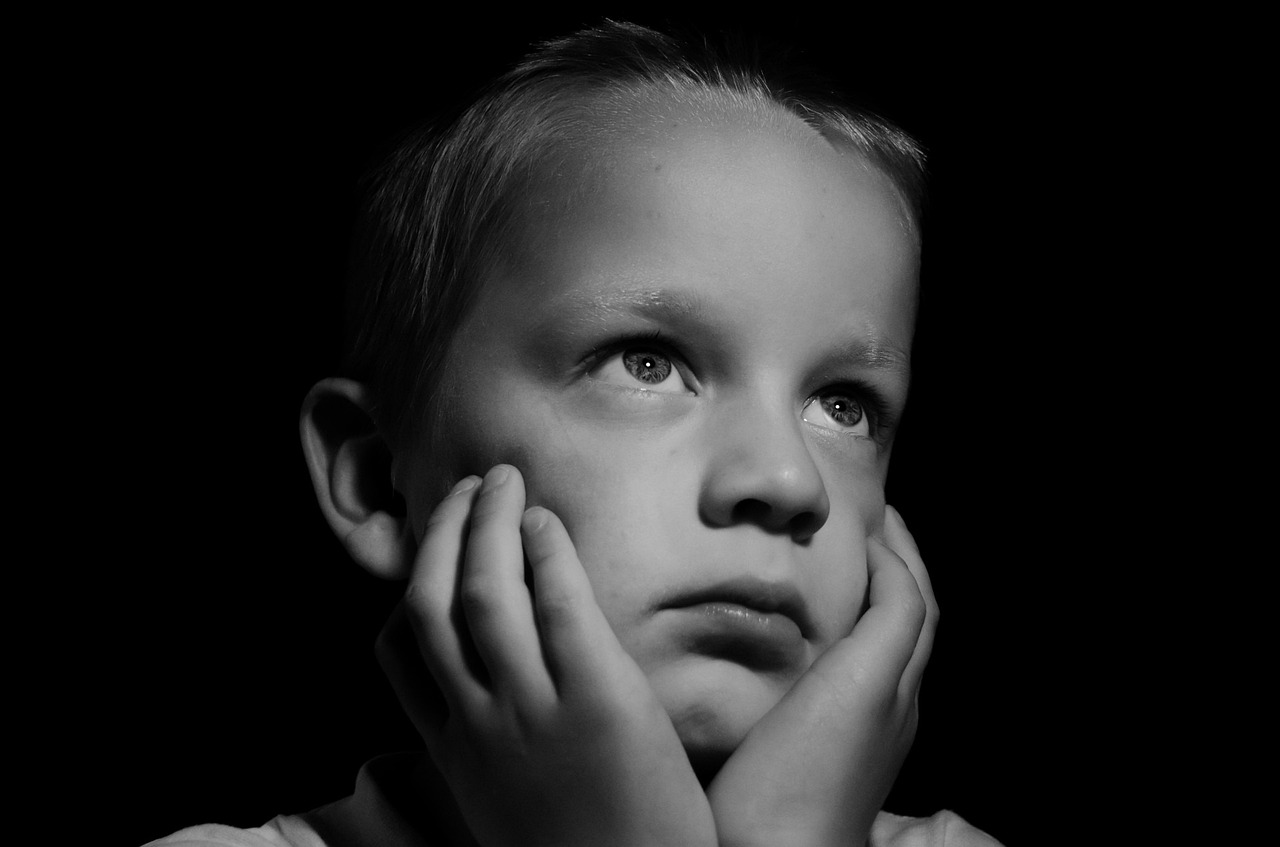
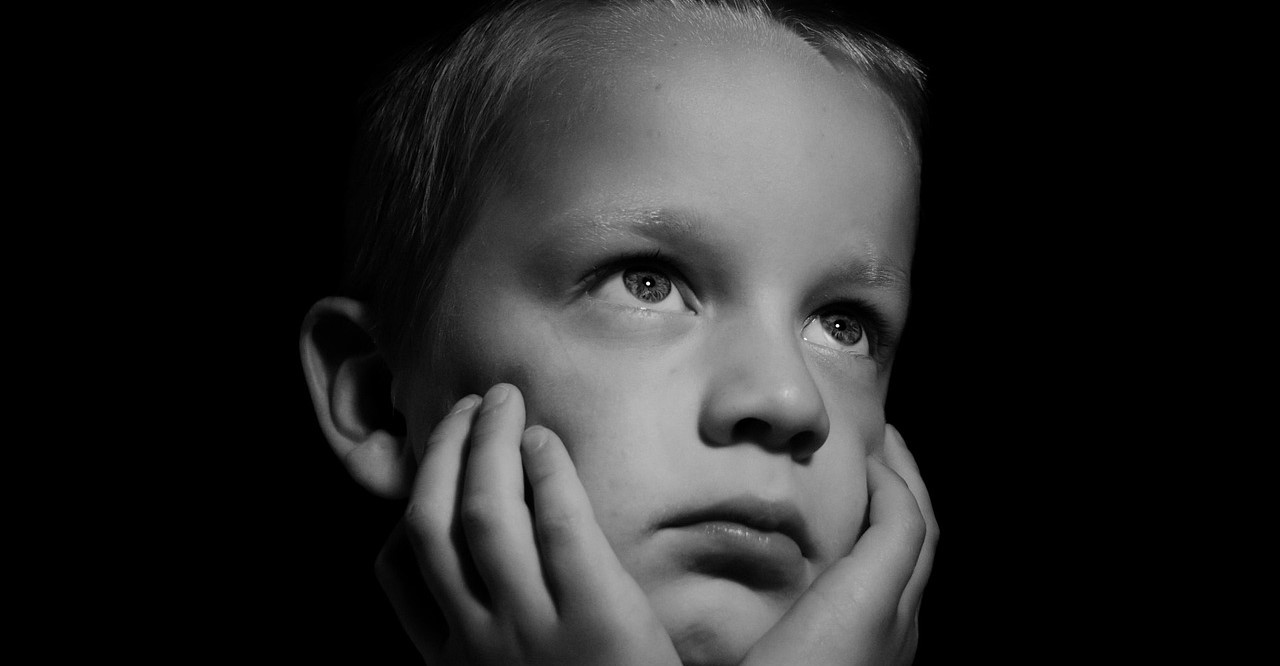
har fået lavet hero tekst, knapper og baggrundsbillede

diff --git a/bornsvilkar/index.html b/bornsvilkar/index.html
@@ -4,10 +4,18 @@
     <meta charset="UTF-8">
     <meta name="viewport" content="width=device-width, initial-scale=1.0">
     <title>Børns Vilkår - Forside</title>
+    <!--link til css for børns vilkår siderne-->
     <link rel="stylesheet" href="styles.css">
+    <!--dette er et link til fontawesome hvor pile i cirklerne kommer fra-->
+    <script src="https://kit.fontawesome.com/04a4f36b9a.js" crossorigin="anonymous"></script>
+
 </head>
 <body>
     <header>
+
+        
+
+        <!--her er html for navigationsbaren-->
         <nav>
             <div class="item01">
                 <a class="logoTekst01" href="#">
@@ -55,37 +63,60 @@
                 </a>
             </div>
         </nav>
+
+
+
+            <!--her er html for baggrundsbilledet til heroteksten, samt knapperne til børns vilkårs funktioner-->
             <img src="images/trist-barn.jpg" alt="trist barn">
+
             <div class="wrapper01">
-                <h1>
+                <h1 class="heroTekst01">
                     VI TALER HØJT OM SVIGT AF BØRN
                 </h1>
-                <p>
+                <p class="heroUndertekst01">
                     Alt for mange børn i Danmark står alene med deres problemer. 
                     Børns Vilkår kæmper for, at ingen børn i Danmark svigtes – 
                     hverken af deres nærmeste voksne eller af samfundet.
                 </p>
-                <div>
-                    <p class="heroKnap01">
-                        HØRT
+                <div class="heroKnap01">
+                    <p>
+                        <a href="#">
+                            <i class="fa-solid fa-circle-right"></i>
+                            HØRT
+                        </a>
                     </p>
-                </div>
-                <div>
-                    <p class="heroKnap01">
-                        Bisidning
+                    <p>
+                        <a href="#">
+                            <i class="fa-solid fa-circle-right"></i>
+                            Bisidning
+                        </a>
                     </p>
-                </div>
-                <div>
-                    <p class="heroKnap01">
-                        Børnetelefonen 116 111
+                    <p>
+                        <a href="#">
+                            <i class="fa-solid fa-circle-right"></i>
+                            Børnetelefonen <br> 116 111
+                        </a>
                     </p>
-                </div>
-                <div>
-                    <p class="heroKnap01">
-                        Forældretelefonen 35 55 55 57
+                    <p>
+                        <a href="#">
+                            <i class="fa-solid fa-circle-right"></i>
+                            Forældretelefonen <br> 35 55 55 57
+                        </a>
                     </p>
                 </div>
             </div>
+
+
+
+            <!--her er html for nyhedsbanneret i bunden af hero billedet-->
+            <div class="bannerWrapper01">
+                <p class="bannerTekst01">   
+                    NYHEDS BANNER PLACEHOLDER TEKST
+                </p> 
+            </div>
+
+
+
     </header>
 </body>
 </html>

diff --git a/bornsvilkar/styles.css b/bornsvilkar/styles.css
@@ -5,11 +5,12 @@ body {
 }
 
 
+
 /* CSS for navigationsbaren på hjemmesiden */
 .item01 { grid-area: bv; 
 background-color: #F05041;
-padding-top: 30px;
-font-size: 18px;
+padding-top: 20px;
+font-size: 20px;
 }
 
 .item02 { grid-area: fs; 
@@ -55,14 +56,14 @@ font-weight: bold;
 
 .item09 { grid-area: sn; 
 background-color: #FFDD31;
-padding-top: 35px;
+padding-top: 30px;
 font-size: 24px;
 font-weight: bold;
 }
 
 nav div {
     text-align: center;
-    font-family: Arial, Helvetica, sans-serif;
+    font-family: 'Segoe UI', Tahoma, Geneva, Verdana, sans-serif;
 }
 
 nav {
@@ -85,14 +86,69 @@ nav div a {
 }
 
 
+
 /* CSS for baggrundsbilledet på forsiden */
 img {
     width: 100%;
 }
 
 
+
 /* CSS for hero tekst og undertekst, samt knapper til HØRT, Børnetelefonen osv.*/
 .wrapper01 {
-    padding-left: 250px;
-    padding-right: 250px;
+    padding-left: 150px;
+    padding-right: 150px;
+    margin-top: -575px;
+    color: #fffeee;
+    font-family: 'Segoe UI', Tahoma, Geneva, Verdana, sans-serif;
+}
+
+nav img {
+    position: absolute;
+    z-index: -99;
+}
+
+.heroTekst01 {
+    padding-right: 500px;
+    font-size: 60px;
+    font-weight: bold;
+}
+
+.heroUndertekst01 {
+    padding-right: 600px;
+    font-size: 20px;
+    font-weight: 500;
+}
+
+.heroKnap01 {
+    text-align: end;
+    font-size: 40px;
+    font-weight: bold;
+    margin-top: -400px;
+}
+
+.heroKnap01 p a {
+    color: #fffeee;
+    text-decoration: none;
+    word-spacing: 20px;
+}
+
+
+
+/* CSS for banner i bunden af hero billedet */
+.bannerWrapper01 {
+    position: absolute;
+    width: 100%;
+    background-color: #F05041;
+    padding: 10px;
+    z-index: 1;
+    margin-top: 30px;
+}
+
+.bannerTekst01 {
+    color: #ffffff;
+    font-family: 'Segoe UI', Tahoma, Geneva, Verdana, sans-serif;
+    font-size: 25px;
+    font-weight: 500;
+    text-align: center;
 }
